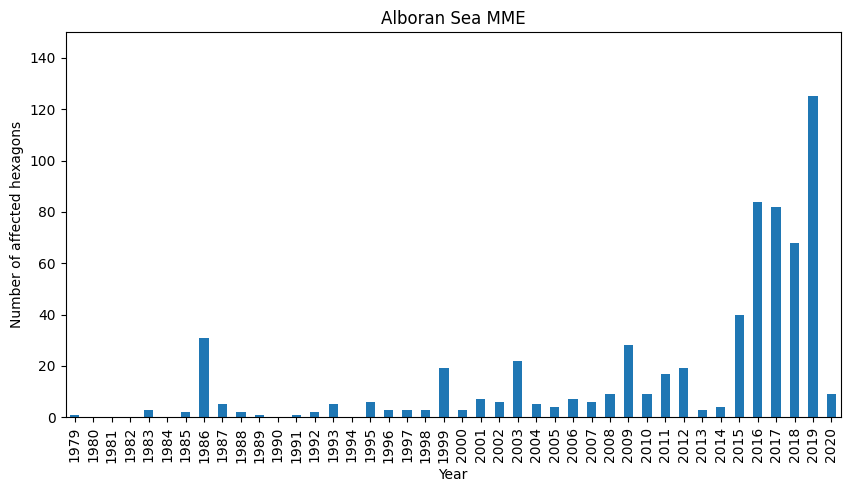
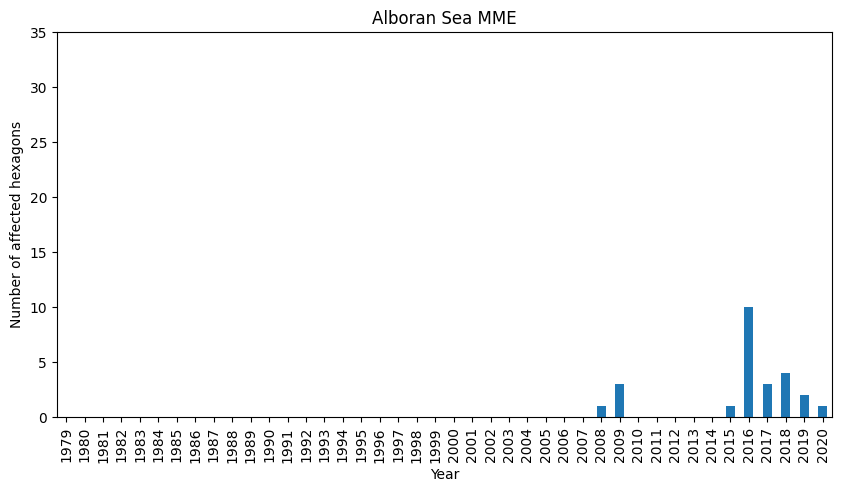
Added df_third to class.

Changed region(s): [[0.0309, 0.061, 0.9893, 0.9756], [0.4328, 0.0, 0.6183, 0.061], [0.0, 0.3354, 0.0309, 0.3659]]

diff --git a/tmednetGUI/mortality_frequency.py b/tmednetGUI/mortality_frequency.py
@@ -8,9 +8,12 @@ class MME_Plot:
         self.df_events = pd.read_excel('../src/MME.xlsx', sheet_name='Quim Years with MME')
         self.df_numbers = pd.read_excel('../src/MME.xlsx', sheet_name='Massimo original dataset')
         self.df_events.columns = self.df_events.columns.astype(str)
-        self.columns = self.df_events.columns
+        self.columns = self.df_events.columns[4:]
 
     def plot_affected_percentage(self):
+        y_axis = self.df_events['#Years with MME'].unique()
+        y_axis.sort()
+        total_hex = self.df_events['#Years with MME'].count()
         df_inc = pd.DataFrame([self.df_events['#Years with MME'].loc[self.df_events['#Years with MME'] == i].count() for i in y_axis],
                               columns=['count'])
         df_inc['% affected'] = (df_inc['count'] / total_hex) * 100
@@ -25,12 +28,34 @@ class MME_Plot:
         plt.title('Mediterranean MME')
         self.save_image('MME_Global')
 
+    def plot_affected_number(self):
+        df_third = self.get_numbered_df()
+        df_third['Year'] = df_third['Year'].astype(int)
+        ax = df_third.plot.bar(x='Year', y='Count', figsize=(10, 5))
+        ax.set_xlabel('Year')
+        ax.set_ylabel('Number of affected hexagons')
+        ax.set_ylim([0, df_third['Count'].max() + 25])
+        plt.xticks(rotation=90)
+        ax.get_legend().remove()
+        plt.title('Mediterranean MME')
+        self.save_image('MME_N_Global')
+
+    def get_numbered_df(self):
+        df_third = pd.DataFrame(self.columns, columns=['Year'])
+        df_third['Count'] = 0
+        for year in self.columns:
+            df_third['Count'].loc[df_third['Year'] == year] = self.df_events[year].sum()
+        return df_third
+
     def save_image(self, title):
         plt.savefig('../src/output_images/' + title + '.png',
                     bbox_inches='tight')
 
     def affected_percentage_regional_composer(self):
         self.loop_ecoregion(self.plot_affected_percentage_regional)
+
+    def affected_numbers_regional_composer(self):
+        self.loop_ecoregion(self.plot_affected_numbers_regional)
 
     def loop_ecoregion(self, func):
         for n in self.df_events['sub-ecoregion'].unique():
@@ -56,9 +81,22 @@ class MME_Plot:
         plt.title(reg + ' MME')
         self.save_image('MME_' + reg)
 
+    def plot_affected_numbers_regional(self, reg):
+        df_third = self.get_numbered_df()
+        for year in self.columns:
+            df_third['Count'].loc[df_third['Year'] == year] = self.df_events[year].loc[self.df_events['sub-ecoregion'] == reg].sum()
+        ax = df_third.plot.bar(x='Year', y='Count', figsize=(10, 5))
+        ax.set_xlabel('Year')
+        ax.set_ylabel('Number of affected hexagons')
+        ax.set_ylim([0, df_third['Count'].max() + 25])
+        plt.xticks(rotation=90)
+        ax.get_legend().remove()
+        plt.title(reg + ' MME')
+        self.save_image('MME_N_' + reg)
+
+
 
 '''
-
 ex = pd.read_excel('../src/MME.xlsx', sheet_name='Quim Years with MME')
 ex.columns = ex.columns.astype(str)
 columns = ex.columns[4:]
@@ -84,23 +122,7 @@ plt.title('Mediterranean MME')
 plt.savefig('../src/output_images/MME_N_Global.png',
                                 bbox_inches='tight')
 for n in ex['sub-ecoregion'].unique():
-    y_axis = ex['#Years with MME'].loc[ex['sub-ecoregion'] == n].unique()
-    y_axis.sort()
-    total_hex = ex['#Years with MME'].loc[ex['sub-ecoregion'] == n].count()
-    df_inc = pd.DataFrame([ex['#Years with MME'].loc[(ex['#Years with MME'] == i) & (ex['sub-ecoregion'] == n)].count() for i in y_axis],
-                          columns=['count'])
-    df_inc['% affected'] = (df_inc['count'] / total_hex) * 100
-    df_inc['N affected'] = df_inc['count']
-    df_inc['y_axis'] = y_axis
-    ax = df_inc.plot.bar(x='y_axis', y='% affected')
-    ax.set_xlabel('Years with MME')
-    ax.set_ylabel('Percentage of affected hexagons')
-    ax.set_ylim([0, 100])
-    plt.xticks(rotation=0)
-    ax.get_legend().remove()
-    plt.title(n + ' MME')
-    plt.savefig('../src/output_images/MME_' + n + '.png',
-                bbox_inches='tight')
+
 
     for year in columns:
         df_third['Count'].loc[df_third['Year'] == year] = ex[year].loc[ex['sub-ecoregion'] == n].sum()

diff --git a/tmednetGUI/Probita.py b/tmednetGUI/Probita.py
@@ -7,6 +7,7 @@ import mortality_frequency as mf
 
 achi = mf.MME_Plot('../src/MME.xlsx')
 achi.affected_percentage_regional_composer()
+achi.affected_numbers_regional_composer()
 
 ex = pd.read_excel('../src/MME.xlsx', sheet_name='Quim Years with MME')
 
